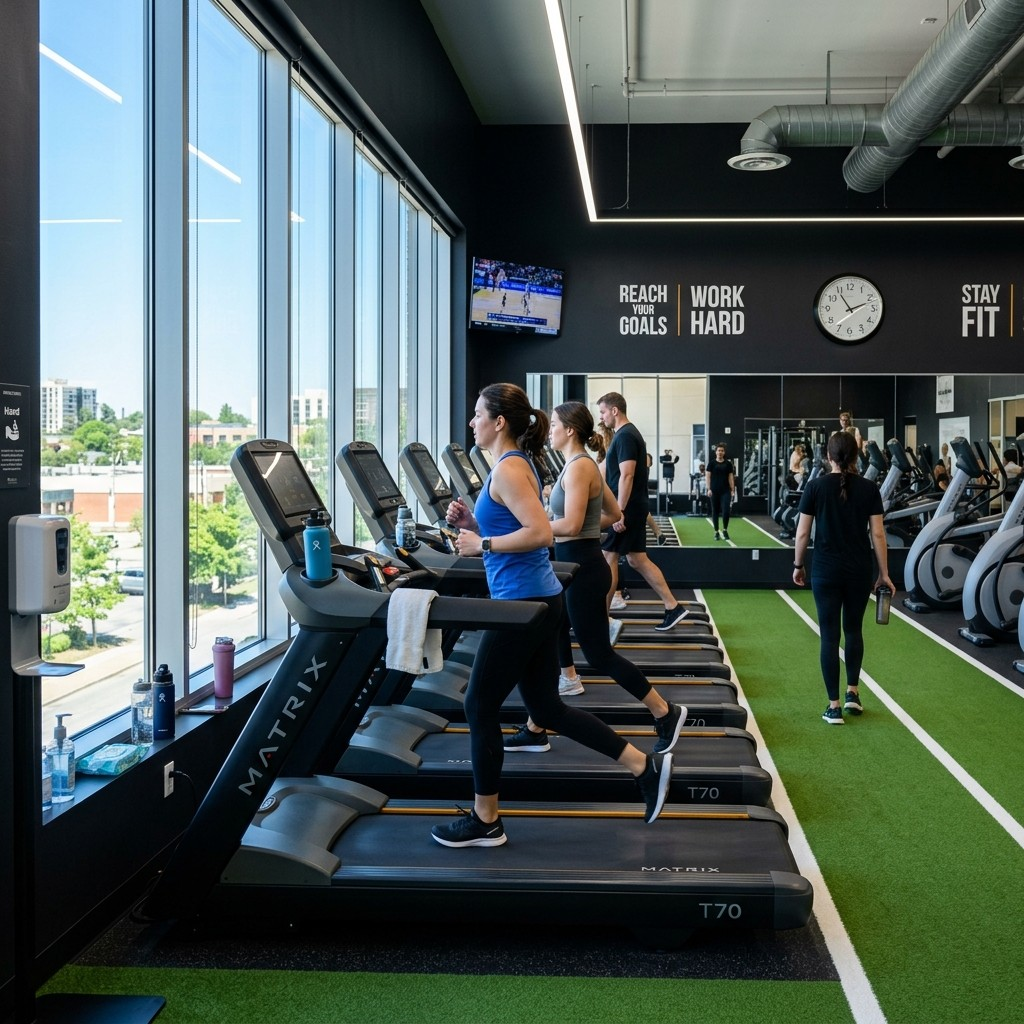
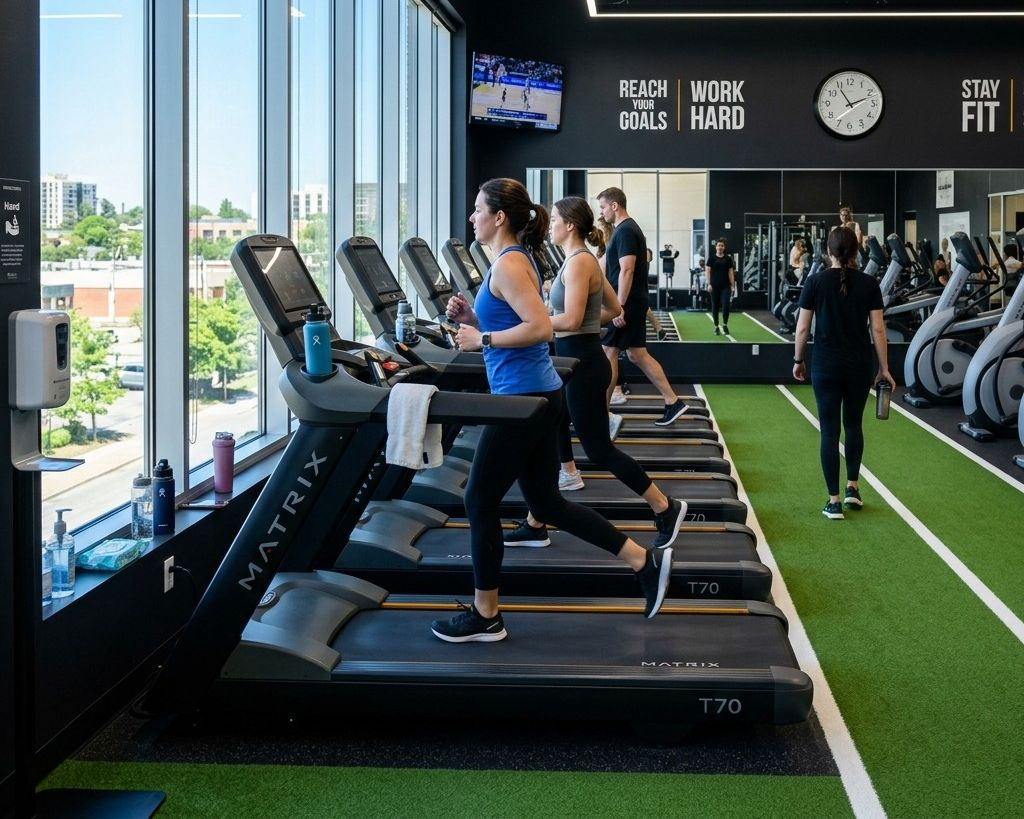
feat: replace map placeholder with live Google Maps iframe, update gallery labels, and automate image processing scripts.

diff --git a/components/sections/Contact.tsx b/components/sections/Contact.tsx
@@ -243,7 +243,7 @@ export default function Contact({ dict }: { dict: ContactDict }) {
               </ul>
             </div>
 
-            {/* Premium Maps Box (Titan Gym look with google maps placeholder/clean design) */}
+            {/* Real Google Maps Iframe */}
             <div
               style={{
                 border: "1px solid var(--line)",
@@ -251,62 +251,18 @@ export default function Contact({ dict }: { dict: ContactDict }) {
                 overflow: "hidden",
                 height: 240,
                 display: "flex",
-                alignItems: "center",
-                justifyContent: "center",
-                flexDirection: "column",
-                gap: 12,
-                background: "linear-gradient(135deg, #0d0d0d 0%, #111 100%)",
                 position: "relative",
               }}
-              aria-label="Map — Tashkent, Chilonzor, Bunyodkor street 12"
             >
-              {/* Subtle visual grid inside map */}
-              <div 
-                style={{
-                  position: "absolute",
-                  inset: 0,
-                  backgroundImage: "linear-gradient(rgba(255,255,255,0.03) 1px, transparent 1px), linear-gradient(90deg, rgba(255,255,255,0.03) 1px, transparent 1px)",
-                  backgroundSize: "20px 20px"
-                }}
+              <iframe 
+                src="https://www.google.com/maps/embed?pb=!1m18!1m12!1m3!1d1515.6793761765712!2d71.13992546247864!3d40.55575423768891!2m3!1f0!2f0!3f0!3m2!1i1024!2i768!4f13.1!3m3!1m2!1s0x38bae3007e91843b%3A0xe3a9c0f83f728626!2sLife%20GYM!5e0!3m2!1sen!2s!4v1785692030854!5m2!1sen!2s" 
+                width="100%" 
+                height="100%" 
+                style={{ border: 0 }} 
+                allowFullScreen={false} 
+                loading="lazy" 
+                referrerPolicy="strict-origin-when-cross-origin"
               />
-              <div
-                style={{
-                  width: 48,
-                  height: 48,
-                  borderRadius: "50%",
-                  background: "var(--red)",
-                  color: "var(--ink)",
-                  display: "flex",
-                  alignItems: "center",
-                  justifyContent: "center",
-                  boxShadow: "0 4px 12px rgba(200, 55, 45, 0.4)",
-                  zIndex: 2,
-                }}
-                aria-hidden="true"
-              >
-                <svg width="20" height="20" viewBox="0 0 24 24" fill="none" stroke="currentColor" strokeWidth="2.5">
-                  <path d="M21 10c0 7-9 13-9 13s-9-6-9-13a9 9 0 0 1 18 0z" />
-                  <circle cx="12" cy="10" r="3" />
-                </svg>
-              </div>
-              <span
-                style={{
-                  fontFamily: "var(--font-body)",
-                  fontSize: 12.5,
-                  fontWeight: 600,
-                  letterSpacing: "0.05em",
-                  color: "var(--ink-40)",
-                  textTransform: "uppercase",
-                  textAlign: "center",
-                  padding: "0 20px",
-                  zIndex: 2,
-                  lineHeight: 1.5
-                }}
-              >
-                Tashkent, Chilonzor
-                <br />
-                <span style={{ fontSize: 11, fontWeight: 400, color: "var(--ink-25)" }}>Bunyodkor str. 12</span>
-              </span>
             </div>
           </div>
 

diff --git a/components/sections/Gallery.tsx b/components/sections/Gallery.tsx
@@ -10,13 +10,13 @@ interface GalleryDict {
 
 const ITEMS = [
   { id:"g1",  cat:"gym",       label:"Og'irliklar Xonasi",  h:280, img: "/images/facility-strength.jpg" },
-  { id:"g2",  cat:"training",  label:"Kuch Mashg'uloti",    h:200, img: "/images/facility-cardio.jpg" },
-  { id:"g3",  cat:"community", label:"Jamiyat Mashg'uloti", h:340, img: "/images/facility-nutrition.jpg" },
+  { id:"g2",  cat:"training",  label:"Kardio Mashg'uloti",  h:200, img: "/images/facility-cardio.jpg" },
+  { id:"g3",  cat:"community", label:"Protein Bar",         h:340, img: "/images/facility-nutrition.jpg" },
   { id:"g4",  cat:"gym",       label:"Kardio Zonasi",       h:240, img: "/images/facility-cardio.jpg" },
   { id:"g5",  cat:"training",  label:"Krossfit Mashg'uloti",h:300, img: "/images/facility-functional.jpg" },
-  { id:"g6",  cat:"events",    label:"Musobaqa Kuni",       h:210, img: "/images/facility-strength.jpg" },
+  { id:"g6",  cat:"events",    label:"Og'ir Atletika",      h:210, img: "/images/facility-strength.jpg" },
   { id:"g7",  cat:"gym",       label:"Funksional Zona",     h:260, img: "/images/facility-functional.jpg" },
-  { id:"g8",  cat:"community", label:"Jamoaviy Mashg'ulot", h:200, img: "/images/facility-locker.jpg" },
+  { id:"g8",  cat:"community", label:"Kiyinish Xonasi",     h:200, img: "/images/facility-locker.jpg" },
   { id:"g9",  cat:"training",  label:"Shaxsiy Mashg'ulot",  h:340, img: "/images/facility-strength.jpg" },
   { id:"g10", cat:"events",    label:"Sport Oziqlanish",    h:210, img: "/images/facility-nutrition.jpg" },
   { id:"g11", cat:"gym",       label:"Tiklanish Zonasi",    h:280, img: "/images/facility-recovery.jpg" },

diff --git a/crop_images.js b/crop_images.js
@@ -1,0 +1,34 @@
+const sharp = require('sharp');
+const fs = require('fs');
+
+async function cropText(file) {
+  try {
+    const metadata = await sharp(file).metadata();
+    
+    // We'll crop the top 20% of the image which usually contains the generated text "THE GYM" or "REACH YOUR GOALS"
+    const cropHeight = Math.floor(metadata.height * 0.8);
+    const topOffset = metadata.height - cropHeight;
+    
+    const tempFile = file.replace('.jpg', '_cropped.jpg');
+    
+    await sharp(file)
+      .extract({ left: 0, top: topOffset, width: metadata.width, height: cropHeight })
+      .toFile(tempFile);
+      
+    // Overwrite the original
+    fs.renameSync(tempFile, file);
+    console.log(`Successfully cropped ${file}`);
+  } catch (err) {
+    console.error(`Error cropping ${file}:`, err);
+  }
+}
+
+async function run() {
+  const publicDir = '/Users/m1pro/Documents/Full Stack Middle/AzizHaydarovGYM/public/images';
+  await cropText(`${publicDir}/facility-nutrition.jpg`);
+  await cropText(`${publicDir}/facility-cardio.jpg`);
+  // Not cropping strength or functional as their text might not be as intrusive at the top, but let's do strength just in case
+  await cropText(`${publicDir}/facility-strength.jpg`);
+}
+
+run();

diff --git a/convert-locker.js b/convert-locker.js
@@ -1,0 +1,12 @@
+const fs = require('fs');
+const sharp = require('sharp');
+const path = require('path');
+
+const src = '/Users/m1pro/.gemini/antigravity-ide/brain/6015178b-0d31-4bd9-9529-36e4ceb50f81/facility_locker_notext_realistic_1785737191269.png';
+const dest = '/Users/m1pro/Documents/Full Stack Middle/AzizHaydarovGYM/public/images/facility-locker.jpg';
+
+sharp(src)
+  .jpeg({ quality: 90 })
+  .toFile(dest)
+  .then(() => console.log('Successfully updated locker room image'))
+  .catch(err => console.error(err));
